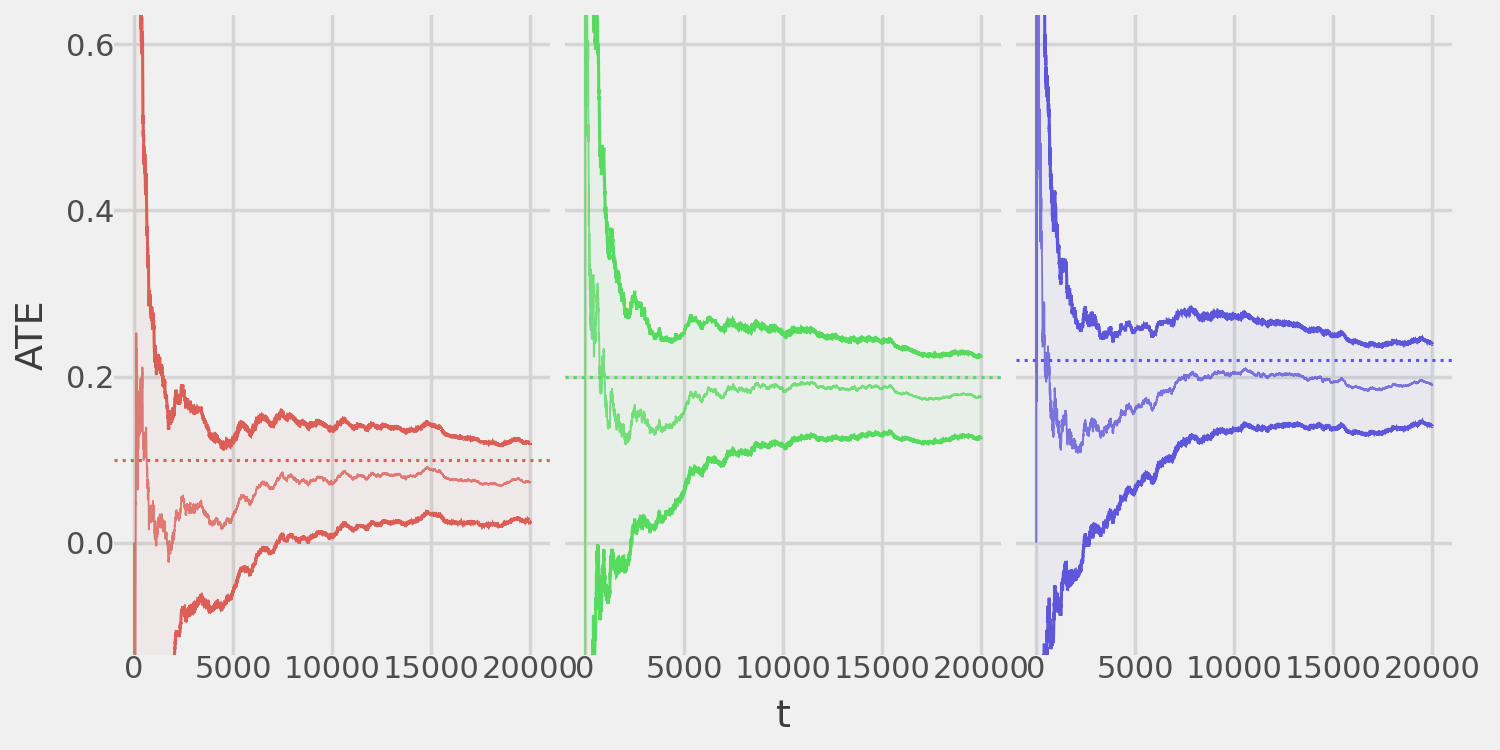
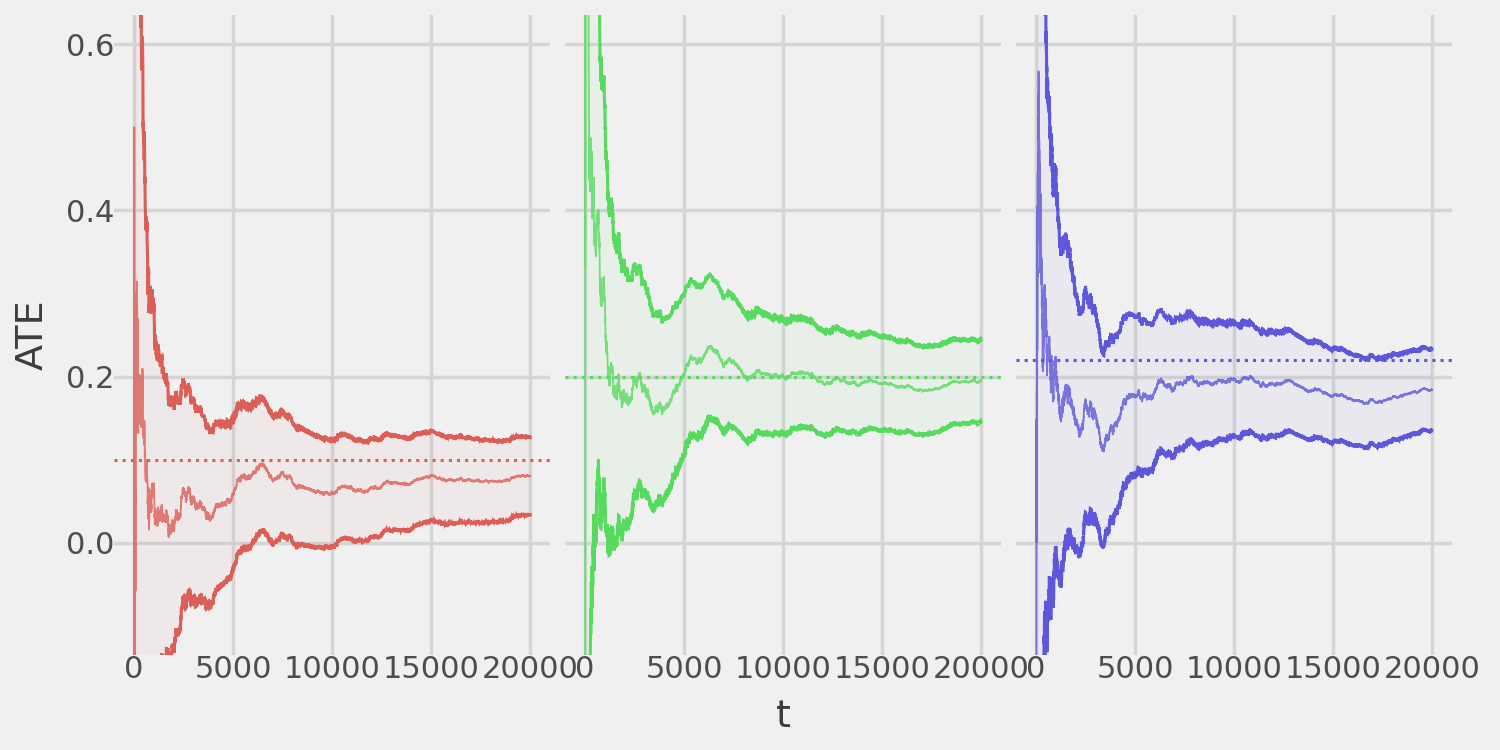
Deploying to gh-pages from @ dmolitor/pyssed@d8a823ce1fd36639f52424c39b78cd1c27262689 🚀

diff --git a/index.html b/index.html
@@ -202,7 +202,7 @@ window.Quarto = {
 <h2 class="anchored" data-anchor-id="usage">Usage</h2>
 <p>We’ll simulate an experiment with three treatment arms and one control arm using Thompson Sampling (TS) as the bandit algorithm. We’ll demonstrate how MAD enables unbiased ATE estimation for all treatments while maintaining valid confidence sequences.</p>
 <p>First, import the necessary packages:</p>
-<div id="636a008f" class="cell" data-execution_count="2">
+<div id="e5aaf673" class="cell" data-execution_count="2">
 <div class="sourceCode cell-code" id="cb3"><pre class="sourceCode python code-with-copy"><code class="sourceCode python"><span id="cb3-1"><a href="#cb3-1" aria-hidden="true" tabindex="-1"></a><span class="im">import</span> numpy <span class="im">as</span> np</span>
 <span id="cb3-2"><a href="#cb3-2" aria-hidden="true" tabindex="-1"></a><span class="im">import</span> pandas <span class="im">as</span> pd</span>
 <span id="cb3-3"><a href="#cb3-3" aria-hidden="true" tabindex="-1"></a><span class="im">import</span> plotnine <span class="im">as</span> pn</span>
@@ -214,7 +214,7 @@ window.Quarto = {
 <section id="treatment-arm-outcomes" class="level3">
 <h3 class="anchored" data-anchor-id="treatment-arm-outcomes">Treatment arm outcomes</h3>
 <p>Next, define a function to generate outcomes (rewards) for each experiment arm:</p>
-<div id="6974c7a8" class="cell" data-execution_count="4">
+<div id="f3e37ff2" class="cell" data-execution_count="4">
 <div class="sourceCode cell-code" id="cb4"><pre class="sourceCode python code-with-copy"><code class="sourceCode python"><span id="cb4-1"><a href="#cb4-1" aria-hidden="true" tabindex="-1"></a><span class="kw">def</span> reward_fn(arm: <span class="bu">int</span>) <span class="op">-&gt;</span> <span class="bu">float</span>:</span>
 <span id="cb4-2"><a href="#cb4-2" aria-hidden="true" tabindex="-1"></a>    values <span class="op">=</span> {</span>
 <span id="cb4-3"><a href="#cb4-3" aria-hidden="true" tabindex="-1"></a>        <span class="dv">0</span>: generator.binomial(<span class="dv">1</span>, <span class="fl">0.5</span>),  <span class="co"># Control arm</span></span>
@@ -239,7 +239,7 @@ window.Quarto = {
 </ul>
 <p>For full details, see the <code>pyssed.Bandit</code> documentation.</p>
 <p>The following is an example TS implementation:</p>
-<div id="1229738b" class="cell" data-execution_count="5">
+<div id="0acdf4ac" class="cell" data-execution_count="5">
 <div class="sourceCode cell-code" id="cb5"><pre class="sourceCode python code-with-copy"><code class="sourceCode python"><span id="cb5-1"><a href="#cb5-1" aria-hidden="true" tabindex="-1"></a><span class="kw">class</span> TSBernoulli(Bandit):</span>
 <span id="cb5-2"><a href="#cb5-2" aria-hidden="true" tabindex="-1"></a>    <span class="co">"""</span></span>
 <span id="cb5-3"><a href="#cb5-3" aria-hidden="true" tabindex="-1"></a><span class="co">    A class for implementing Thompson Sampling on Bernoulli data</span></span>
@@ -300,7 +300,7 @@ window.Quarto = {
 <p>For our MAD design, we need a function that takes the time step <span class="math inline">\(t\)</span> and computes a sequence converging to 0. The key requirement is that this sequence must decay slower than <span class="math inline">\(1/(t^{1/4})\)</span>.</p>
 <p>Intuitively, a sequence of <span class="math inline">\(1/t^0 = 1\)</span> corresponds to Bernoulli randomization, while a sequence of <span class="math inline">\(1/(t^{0.24})\)</span> closely follows the TS assignment policy.</p>
 <p>In this example, we use <span class="math inline">\(1/(t^{0.24})\)</span> as our sequence. Additionally, we estimate 95% confidence sequences, setting our test size <span class="math inline">\(\alpha=0.05\)</span>. We run the experiment for 20,000 iterations (<code>t_star = 20000</code>).</p>
-<div id="7d7a643f" class="cell" data-execution_count="6">
+<div id="dbc3960e" class="cell" data-execution_count="6">
 <div class="sourceCode cell-code" id="cb6"><pre class="sourceCode python code-with-copy"><code class="sourceCode python"><span id="cb6-1"><a href="#cb6-1" aria-hidden="true" tabindex="-1"></a>experiment <span class="op">=</span> MAD(</span>
 <span id="cb6-2"><a href="#cb6-2" aria-hidden="true" tabindex="-1"></a>    bandit<span class="op">=</span>TSBernoulli(k<span class="op">=</span><span class="dv">4</span>, control<span class="op">=</span><span class="dv">0</span>, reward<span class="op">=</span>reward_fn),</span>
 <span id="cb6-3"><a href="#cb6-3" aria-hidden="true" tabindex="-1"></a>    alpha<span class="op">=</span><span class="fl">0.05</span>,</span>
@@ -313,17 +313,17 @@ window.Quarto = {
 <section id="point-estimates-and-confidence-bands" class="level3">
 <h3 class="anchored" data-anchor-id="point-estimates-and-confidence-bands">Point estimates and confidence bands</h3>
 <p>Now, to examine the results we can print a summary of the ATEs and their corresponding confidence sequences at the end of the experiment:</p>
-<div id="28a8807a" class="cell" data-execution_count="7">
+<div id="caafca0d" class="cell" data-execution_count="7">
 <div class="sourceCode cell-code" id="cb7"><pre class="sourceCode python code-with-copy"><code class="sourceCode python"><span id="cb7-1"><a href="#cb7-1" aria-hidden="true" tabindex="-1"></a>experiment.summary()</span></code><button title="Copy to Clipboard" class="code-copy-button"><i class="bi"></i></button></pre></div>
 <div class="cell-output cell-output-stdout">
 <pre><code>Treatment effect estimates:
-- Arm 1: 0.039 (-0.11033, 0.18865)
-- Arm 2: 0.148 (0.0285, 0.26773)
-- Arm 3: 0.179 (0.07498, 0.28391)</code></pre>
+- Arm 1: 0.043 (-0.10817, 0.19444)
+- Arm 2: 0.146 (0.03005, 0.26281)
+- Arm 3: 0.174 (0.06821, 0.27902)</code></pre>
 </div>
 </div>
 <p>We can also extract this summary into a pandas DataFrame:</p>
-<div id="82d675dd" class="cell" data-execution_count="8">
+<div id="9a172fe3" class="cell" data-execution_count="8">
 <div class="sourceCode cell-code" id="cb9"><pre class="sourceCode python code-with-copy"><code class="sourceCode python"><span id="cb9-1"><a href="#cb9-1" aria-hidden="true" tabindex="-1"></a>experiment.estimates()</span></code><button title="Copy to Clipboard" class="code-copy-button"><i class="bi"></i></button></pre></div>
 <div class="cell-output cell-output-display" data-execution_count="8">
 <table class="dataframe caption-top table table-sm table-striped small" data-quarto-postprocess="true" data-border="1">
@@ -340,23 +340,23 @@ window.Quarto = {
 <tr class="odd">
 <td data-quarto-table-cell-role="th">0</td>
 <td>1</td>
-<td>0.039156</td>
-<td>-0.110334</td>
-<td>0.188645</td>
+<td>0.043137</td>
+<td>-0.108165</td>
+<td>0.194438</td>
 </tr>
 <tr class="even">
 <td data-quarto-table-cell-role="th">1</td>
 <td>2</td>
-<td>0.148111</td>
-<td>0.028496</td>
-<td>0.267725</td>
+<td>0.146426</td>
+<td>0.030046</td>
+<td>0.262807</td>
 </tr>
 <tr class="odd">
 <td data-quarto-table-cell-role="th">2</td>
 <td>3</td>
-<td>0.179445</td>
-<td>0.074981</td>
-<td>0.283909</td>
+<td>0.173614</td>
+<td>0.068206</td>
+<td>0.279022</td>
 </tr>
 </tbody>
 </table>
@@ -368,7 +368,7 @@ window.Quarto = {
 <section id="plotting-results" class="level3">
 <h3 class="anchored" data-anchor-id="plotting-results">Plotting results</h3>
 <p>We can also visualize the ATE estimates and confidence sequences for each treatment arm over time.</p>
-<div id="af440136" class="cell" data-execution_count="9">
+<div id="0fabb712" class="cell" data-execution_count="9">
 <div class="sourceCode cell-code" id="cb10"><pre class="sourceCode python code-with-copy"><code class="sourceCode python"><span id="cb10-1"><a href="#cb10-1" aria-hidden="true" tabindex="-1"></a>(</span>
 <span id="cb10-2"><a href="#cb10-2" aria-hidden="true" tabindex="-1"></a>    experiment.plot_ate()</span>
 <span id="cb10-3"><a href="#cb10-3" aria-hidden="true" tabindex="-1"></a>    <span class="op">+</span> pn.coord_cartesian(ylim<span class="op">=</span>(<span class="op">-</span><span class="fl">.5</span>, <span class="fl">1.0</span>))</span>
@@ -389,7 +389,7 @@ window.Quarto = {
 </div>
 <p>The ATE estimates converge toward the ground truth, and the confidence sequences maintain valid coverage!</p>
 <p>We can also examine the algorithm’s sample assignment strategy over time.</p>
-<div id="097fe6a5" class="cell" data-execution_count="10">
+<div id="d22f15d5" class="cell" data-execution_count="10">
 <div class="sourceCode cell-code" id="cb11"><pre class="sourceCode python code-with-copy"><code class="sourceCode python"><span id="cb11-1"><a href="#cb11-1" aria-hidden="true" tabindex="-1"></a>experiment.plot_sample_assignment()</span></code><button title="Copy to Clipboard" class="code-copy-button"><i class="bi"></i></button></pre></div>
 <div class="cell-output cell-output-display">
 <div>
@@ -401,7 +401,7 @@ window.Quarto = {
 </div>
 <p>Due to the TS algorithm, most samples go to the optimal Arm 3 and secondary Arm 2, with some random exploration in Arms 0 and 1.</p>
 <p>Similarly, we can plot the total sample assignments per arm.</p>
-<div id="67b1216f" class="cell" data-execution_count="11">
+<div id="5947161a" class="cell" data-execution_count="11">
 <div class="sourceCode cell-code" id="cb12"><pre class="sourceCode python code-with-copy"><code class="sourceCode python"><span id="cb12-1"><a href="#cb12-1" aria-hidden="true" tabindex="-1"></a>experiment.plot_n()</span></code><button title="Copy to Clipboard" class="code-copy-button"><i class="bi"></i></button></pre></div>
 <div class="cell-output cell-output-display">
 <div>
@@ -415,7 +415,7 @@ window.Quarto = {
 <section id="equivalence-to-a-completely-randomized-design" class="level3">
 <h3 class="anchored" data-anchor-id="equivalence-to-a-completely-randomized-design">Equivalence to a completely randomized design</h3>
 <p>As noted above, setting the time-diminishing sequence <span class="math inline">\(\delta_t = 1/t^0 = 1\)</span> results in a fully randomized design. We can easily demonstrate this:</p>
-<div id="4b7836f9" class="cell" data-execution_count="12">
+<div id="b3891b10" class="cell" data-execution_count="12">
 <div class="sourceCode cell-code" id="cb13"><pre class="sourceCode python code-with-copy"><code class="sourceCode python"><span id="cb13-1"><a href="#cb13-1" aria-hidden="true" tabindex="-1"></a>exp_bernoulli <span class="op">=</span> MAD(</span>
 <span id="cb13-2"><a href="#cb13-2" aria-hidden="true" tabindex="-1"></a>    bandit<span class="op">=</span>TSBernoulli(k<span class="op">=</span><span class="dv">4</span>, control<span class="op">=</span><span class="dv">0</span>, reward<span class="op">=</span>reward_fn),</span>
 <span id="cb13-3"><a href="#cb13-3" aria-hidden="true" tabindex="-1"></a>    alpha<span class="op">=</span><span class="fl">0.05</span>,</span>
@@ -425,7 +425,7 @@ window.Quarto = {
 <span id="cb13-7"><a href="#cb13-7" aria-hidden="true" tabindex="-1"></a>exp_bernoulli.fit(verbose<span class="op">=</span><span class="va">False</span>)</span></code><button title="Copy to Clipboard" class="code-copy-button"><i class="bi"></i></button></pre></div>
 </div>
 <p>As before, we can plot the convergence of the estimated ATEs to the ground truth:</p>
-<div id="1a9c4f18" class="cell" data-execution_count="13">
+<div id="6f25d9fe" class="cell" data-execution_count="13">
 <div class="sourceCode cell-code" id="cb14"><pre class="sourceCode python code-with-copy"><code class="sourceCode python"><span id="cb14-1"><a href="#cb14-1" aria-hidden="true" tabindex="-1"></a>(</span>
 <span id="cb14-2"><a href="#cb14-2" aria-hidden="true" tabindex="-1"></a>    exp_bernoulli.plot_ate()</span>
 <span id="cb14-3"><a href="#cb14-3" aria-hidden="true" tabindex="-1"></a>    <span class="op">+</span> pn.coord_cartesian(ylim<span class="op">=</span>(<span class="op">-</span><span class="fl">.1</span>, <span class="fl">0.6</span>))</span>
@@ -445,7 +445,7 @@ window.Quarto = {
 </div>
 </div>
 <p>And we can verify fully random assignment:</p>
-<div id="be3f99ec" class="cell" data-execution_count="14">
+<div id="7e99e946" class="cell" data-execution_count="14">
 <div class="sourceCode cell-code" id="cb15"><pre class="sourceCode python code-with-copy"><code class="sourceCode python"><span id="cb15-1"><a href="#cb15-1" aria-hidden="true" tabindex="-1"></a>exp_bernoulli.plot_n()</span></code><button title="Copy to Clipboard" class="code-copy-button"><i class="bi"></i></button></pre></div>
 <div class="cell-output cell-output-display">
 <div>
